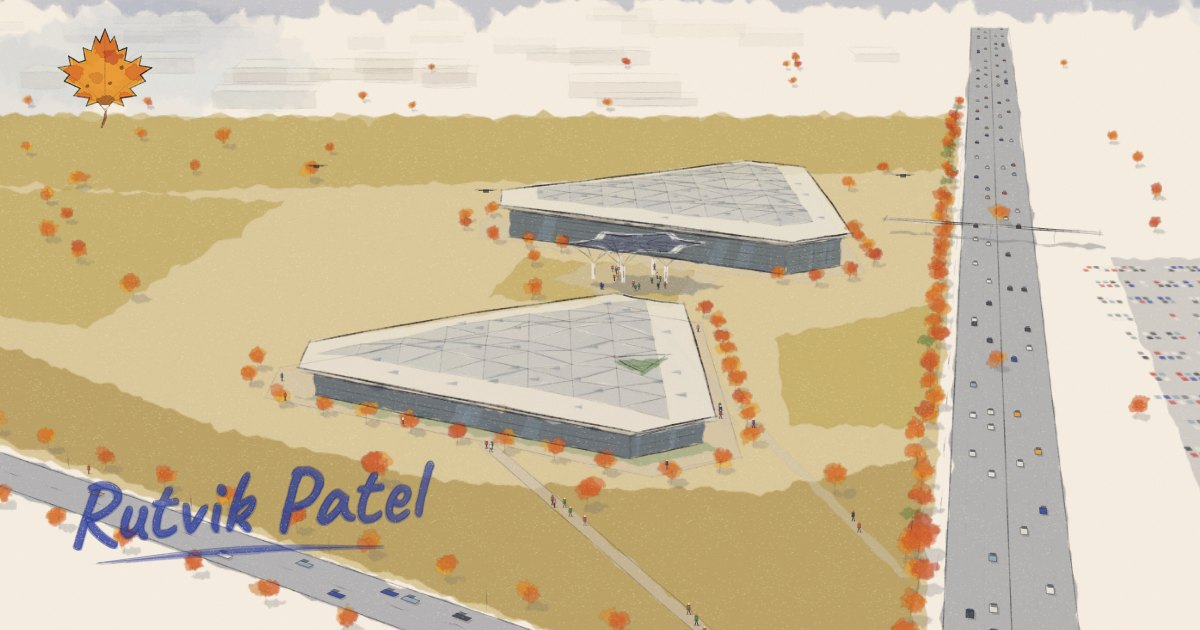
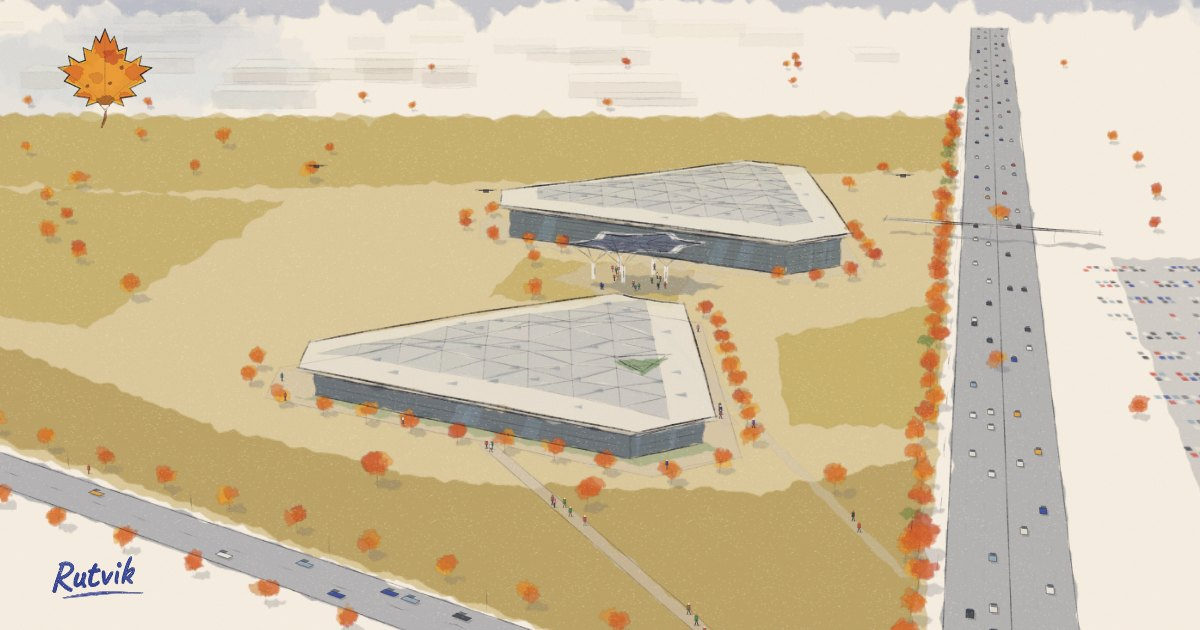
Home preview: sign it "Rutvik", small, in the corner
The signature is the first name only, at 40px instead of 88px, in a
lighter weight. It sits on the paper in the bottom-left corner, clear
of the painting, with a finer drying edge and an underline that tapers
to a hairline. The name comes from founder.name. The alt text says
what it is signed.

Claude-Session: https://claude.ai/code/session_017SQiwDxuabJfEwbiYyqsdt

Changed region(s): [[0.0308, 0.7238, 0.37, 0.9651]]

diff --git a/src/app/layout.tsx b/src/app/layout.tsx
@@ -79,7 +79,7 @@ export const metadata: Metadata = {
     description: site.description,
     path: '/',
     image: 'home',
-    alt: `A watercolour of Nvidia's Voyager and Endeavor buildings in Santa Clara in autumn, with the maple leaf mark and ${founder.name}'s name signed in paint in the corner`,
+    alt: `A watercolour of Nvidia's Voyager and Endeavor buildings in Santa Clara in autumn, with the maple leaf mark, signed “${founder.name.split(' ')[0]}” in paint in the corner`,
   }),
   robots: { index: true, follow: true },
 };
